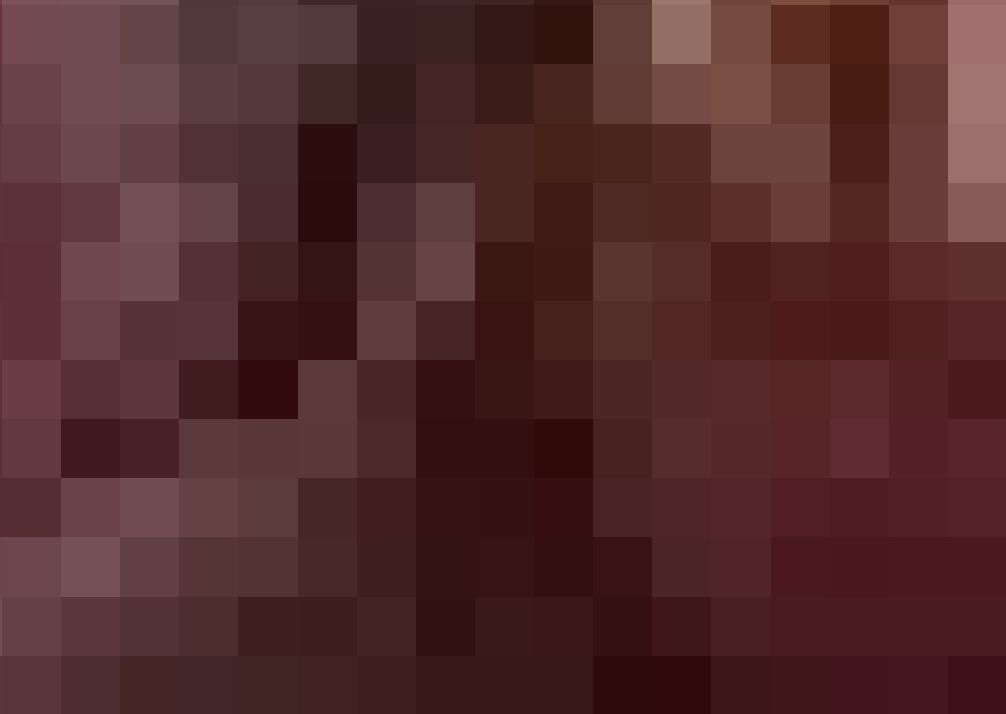
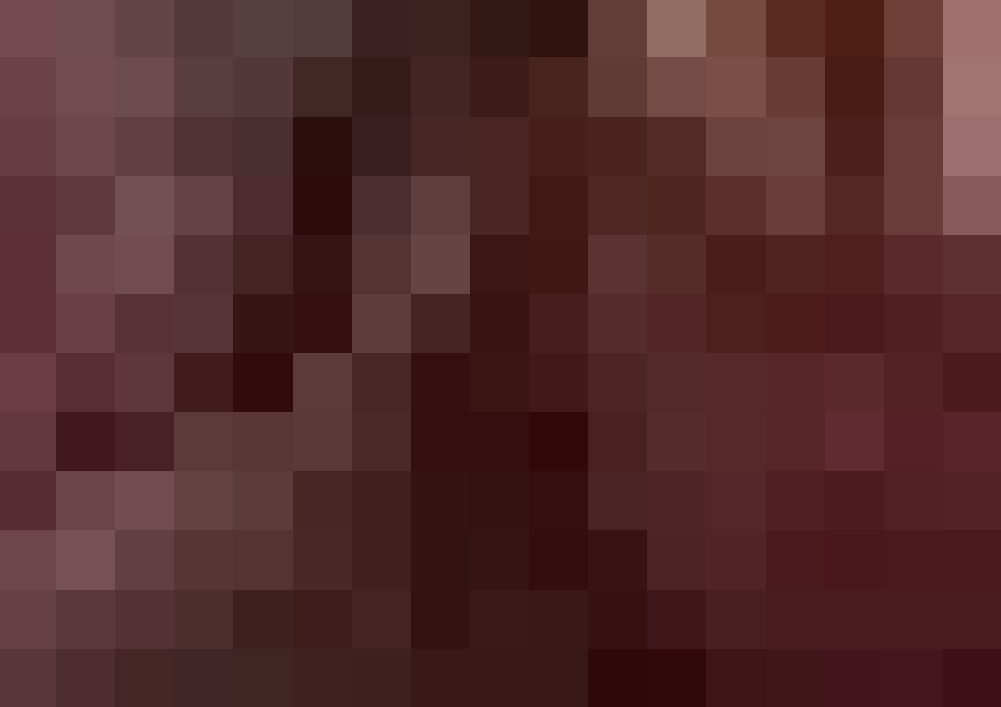
publish website with latest updates

diff --git a/docs/styles.1.css b/docs/styles.1.css
@@ -3,7 +3,7 @@
   box-sizing: border-box;
 }
 
-/* Template: ./b26.png */
+/* Template: ./b20.png */
 
 footer {
     background-color: #333;
@@ -73,7 +73,7 @@ header nav a {
 		/* Basic Styling */
 		html, body {
 			overflow-x: hidden; /* Prevent horizontal scrolling */
-            background-image: url('./b26.png');
+            background-image: url('./b20.png');
             background-size: cover; /* Ensures the image covers the entire viewport */
             background-repeat: no-repeat; /* Prevents the image from repeating */
             background-attachment: fixed; /* Optional: Keeps the background fixed while scrolling */

diff --git a/docs/styles.3.css b/docs/styles.3.css
@@ -3,7 +3,7 @@
   box-sizing: border-box;
 }
 
-/* Template: ./b42.png */
+/* Template: ./b35.png */
 
 footer {
     background-color: #333;
@@ -73,7 +73,7 @@ header nav a {
 		/* Basic Styling */
 		html, body {
 			overflow-x: hidden; /* Prevent horizontal scrolling */
-            background-image: url('./b42.png');
+            background-image: url('./b35.png');
             background-size: cover; /* Ensures the image covers the entire viewport */
             background-repeat: no-repeat; /* Prevents the image from repeating */
             background-attachment: fixed; /* Optional: Keeps the background fixed while scrolling */

diff --git a/docs/styles.4.css b/docs/styles.4.css
@@ -3,7 +3,7 @@
   box-sizing: border-box;
 }
 
-/* Template: ./b23.png */
+/* Template: ./b16.png */
 
 footer {
     background-color: #333;
@@ -73,7 +73,7 @@ header nav a {
 		/* Basic Styling */
 		html, body {
 			overflow-x: hidden; /* Prevent horizontal scrolling */
-            background-image: url('./b23.png');
+            background-image: url('./b16.png');
             background-size: cover; /* Ensures the image covers the entire viewport */
             background-repeat: no-repeat; /* Prevents the image from repeating */
             background-attachment: fixed; /* Optional: Keeps the background fixed while scrolling */

diff --git a/docs/styles.6.css b/docs/styles.6.css
@@ -3,7 +3,7 @@
   box-sizing: border-box;
 }
 
-/* Template: ./b38.png */
+/* Template: ./b32.png */
 
 footer {
     background-color: #333;
@@ -73,7 +73,7 @@ header nav a {
 		/* Basic Styling */
 		html, body {
 			overflow-x: hidden; /* Prevent horizontal scrolling */
-            background-image: url('./b38.png');
+            background-image: url('./b32.png');
             background-size: cover; /* Ensures the image covers the entire viewport */
             background-repeat: no-repeat; /* Prevents the image from repeating */
             background-attachment: fixed; /* Optional: Keeps the background fixed while scrolling */

diff --git a/docs/styles.2.css b/docs/styles.2.css
@@ -3,7 +3,7 @@
   box-sizing: border-box;
 }
 
-/* Template: ./b15.png */
+/* Template: ./b1.png */
 
 footer {
     background-color: #333;
@@ -73,7 +73,7 @@ header nav a {
 		/* Basic Styling */
 		html, body {
 			overflow-x: hidden; /* Prevent horizontal scrolling */
-            background-image: url('./b15.png');
+            background-image: url('./b1.png');
             background-size: cover; /* Ensures the image covers the entire viewport */
             background-repeat: no-repeat; /* Prevents the image from repeating */
             background-attachment: fixed; /* Optional: Keeps the background fixed while scrolling */

diff --git a/docs/styles.5.css b/docs/styles.5.css
@@ -3,7 +3,7 @@
   box-sizing: border-box;
 }
 
-/* Template: ./b12.png */
+/* Template: ./b6.png */
 
 footer {
     background-color: #333;
@@ -73,7 +73,7 @@ header nav a {
 		/* Basic Styling */
 		html, body {
 			overflow-x: hidden; /* Prevent horizontal scrolling */
-            background-image: url('./b12.png');
+            background-image: url('./b6.png');
             background-size: cover; /* Ensures the image covers the entire viewport */
             background-repeat: no-repeat; /* Prevents the image from repeating */
             background-attachment: fixed; /* Optional: Keeps the background fixed while scrolling */
